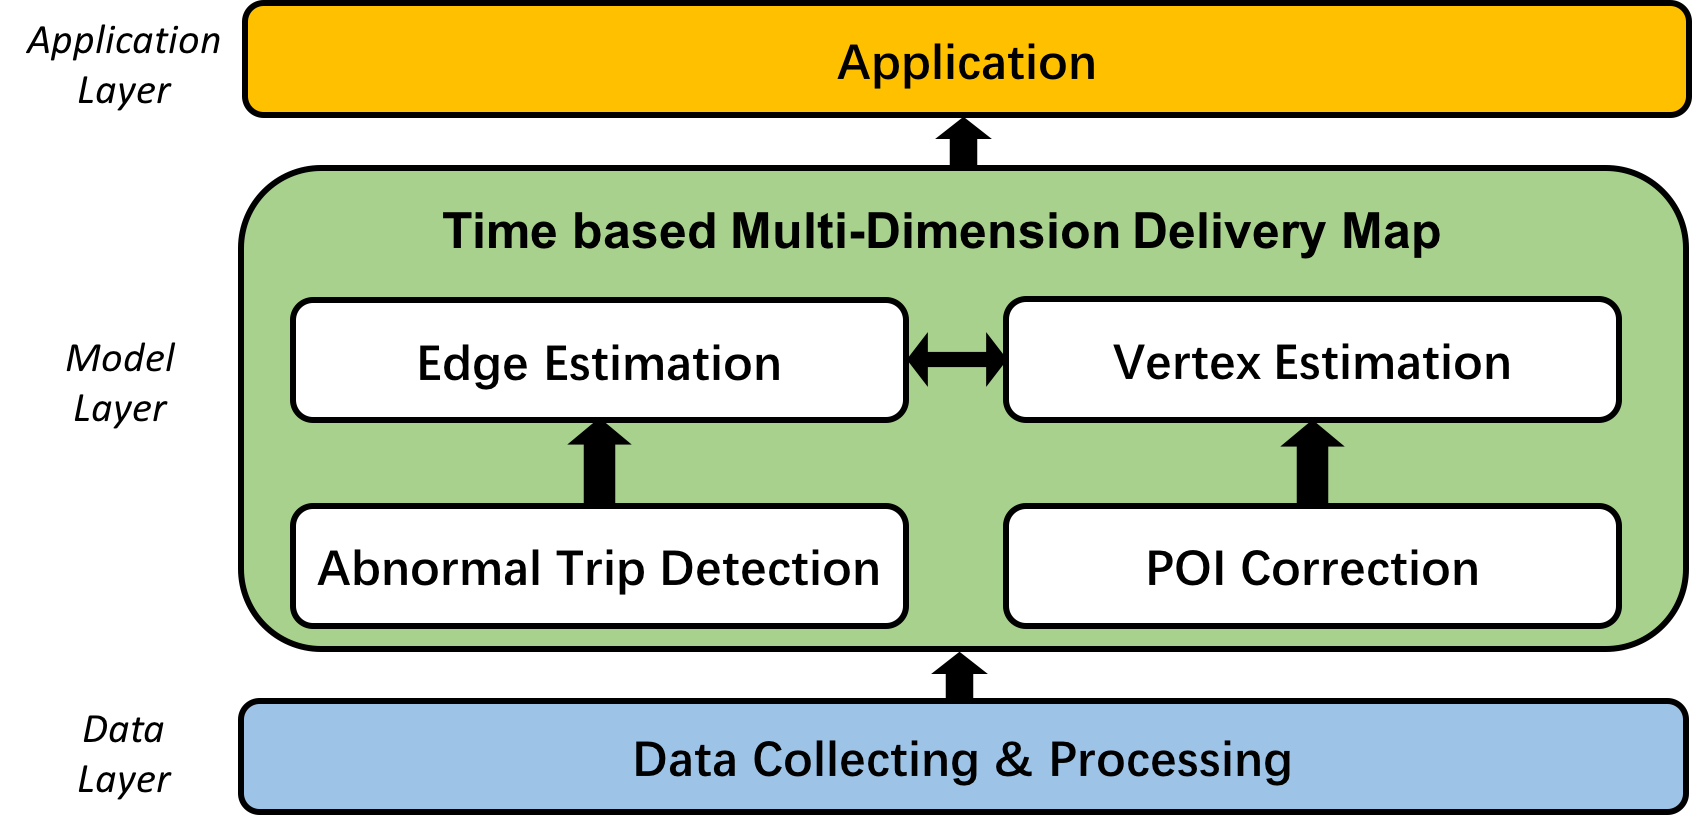
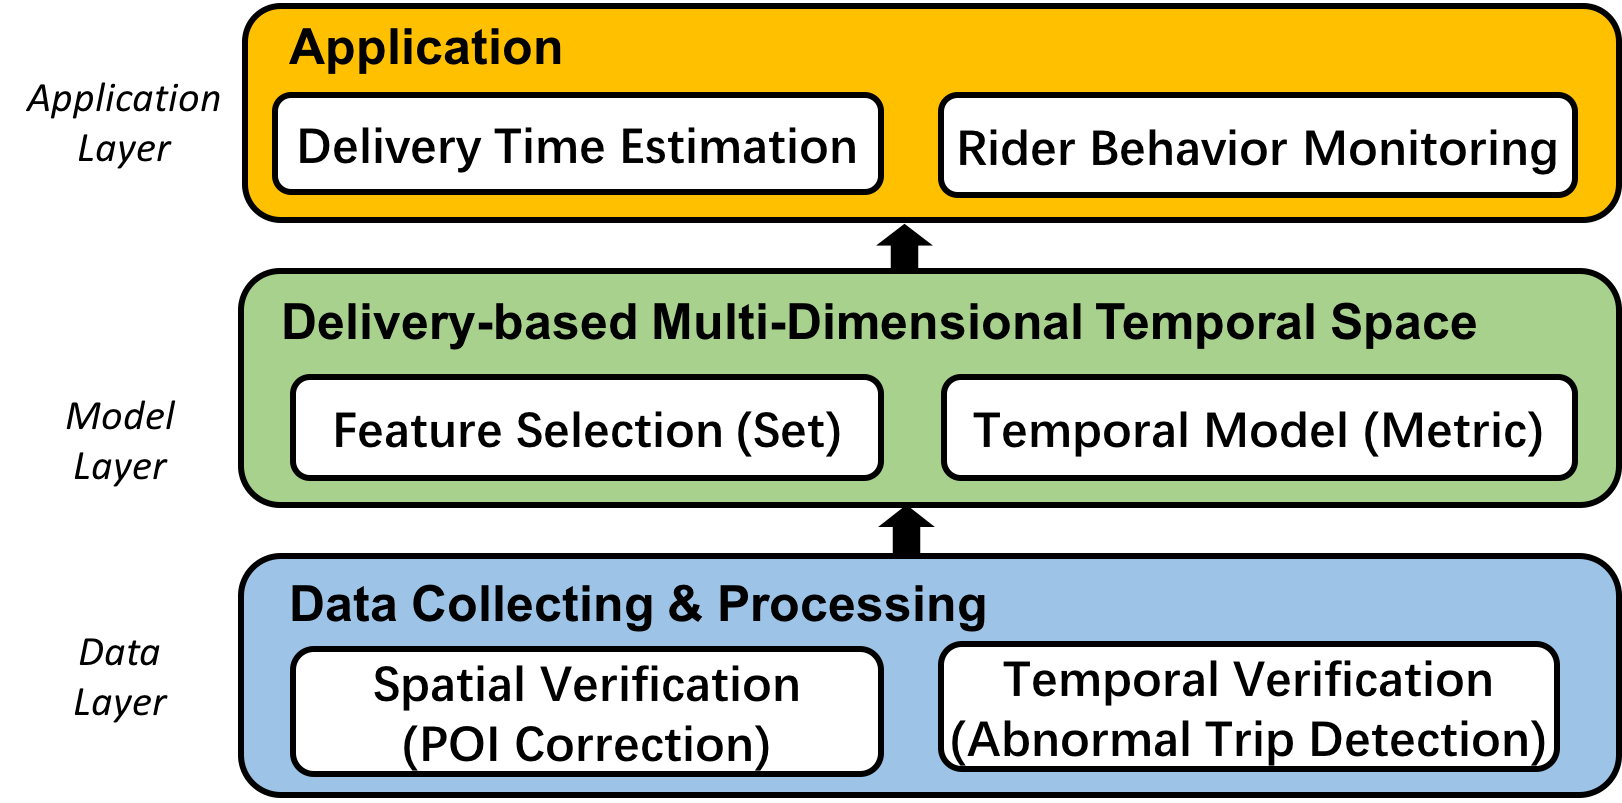
update outline

diff --git a/Research/2018-MobiSys/outline-draft-3.md b/Research/2018-MobiSys/outline-draft-3.md
@@ -48,6 +48,18 @@ The system overview can be seen in the Figure 1.
 <img src="figures/system-overview-3.png"  alt="system overview">
 </p>
 
+Acutally, we should call it a space instead of a map. It is similar as a metric space in the sense that a distance function is defined. However the symmetry condition is obviously not met and we cannot prove triangle law. 
+
+The time-based map is a conceptual kernel and can be implemented with many ways: MDS, machine learning model such as rbf-svm or Deep NN. As long as the model's input is the event(vertex) and can output a metric is supported 
+
+### 3.1 Application
+Based on the time map, we can measure and estimate the time difference or time similarity between two places (events). Some applications can be:
+* Estimate delivery time by summing rider's estimated trip.
+* Dispatching based on rider's arrival time at next restaurant.
+* Rider behavior monitoring based on metric of his trace on the map and his reported trip.
+
+## 4 
+
 ##  Evaluation
 We can consider following indicators to evaluate the effectiveness of our methods and others' methods.
 
